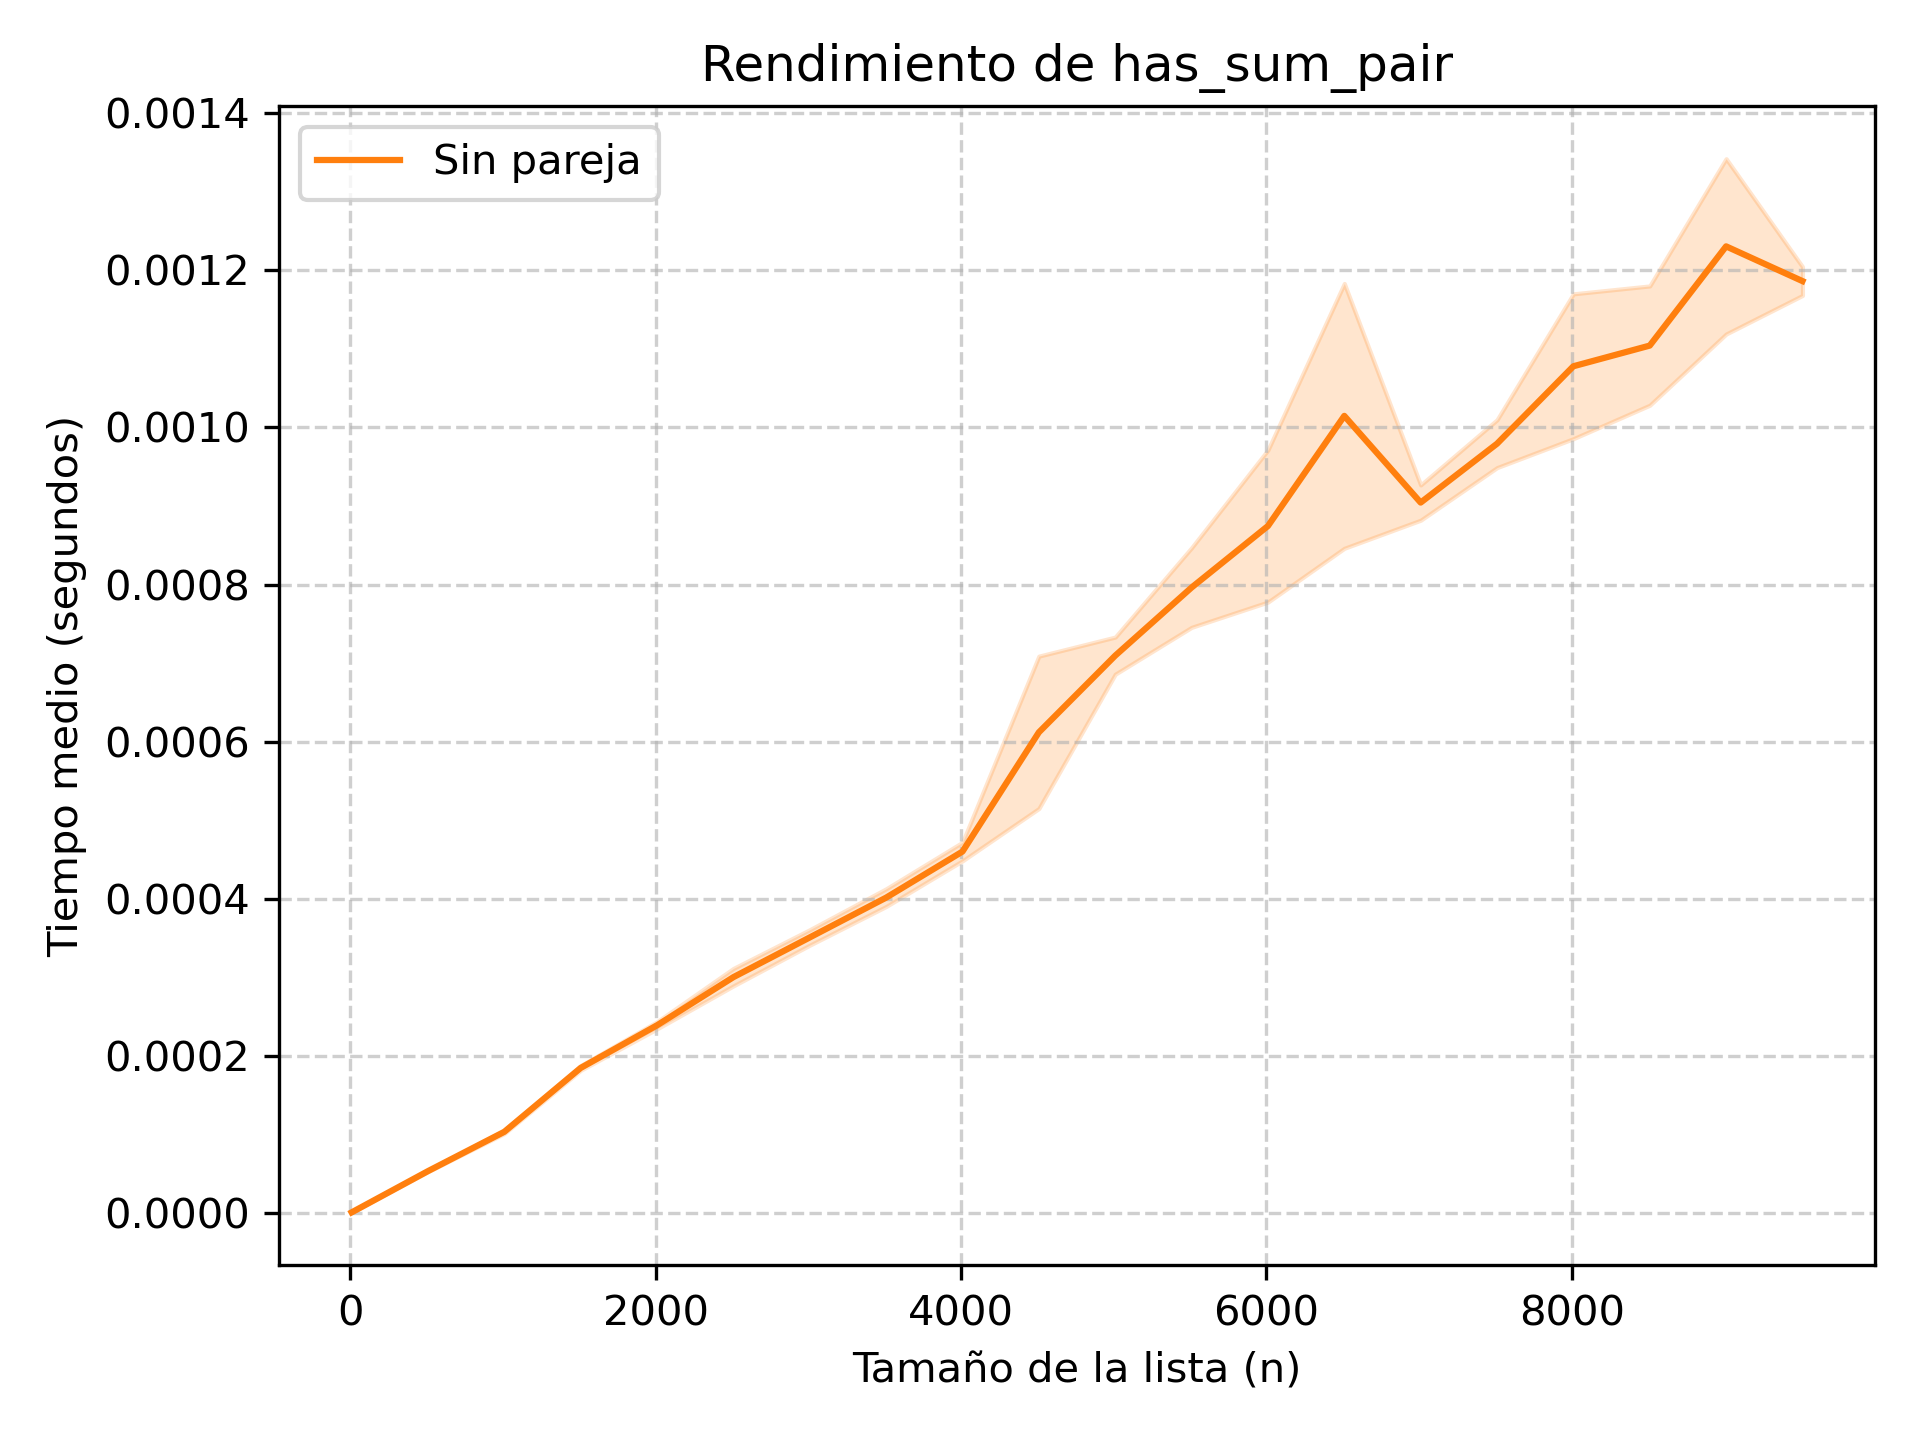
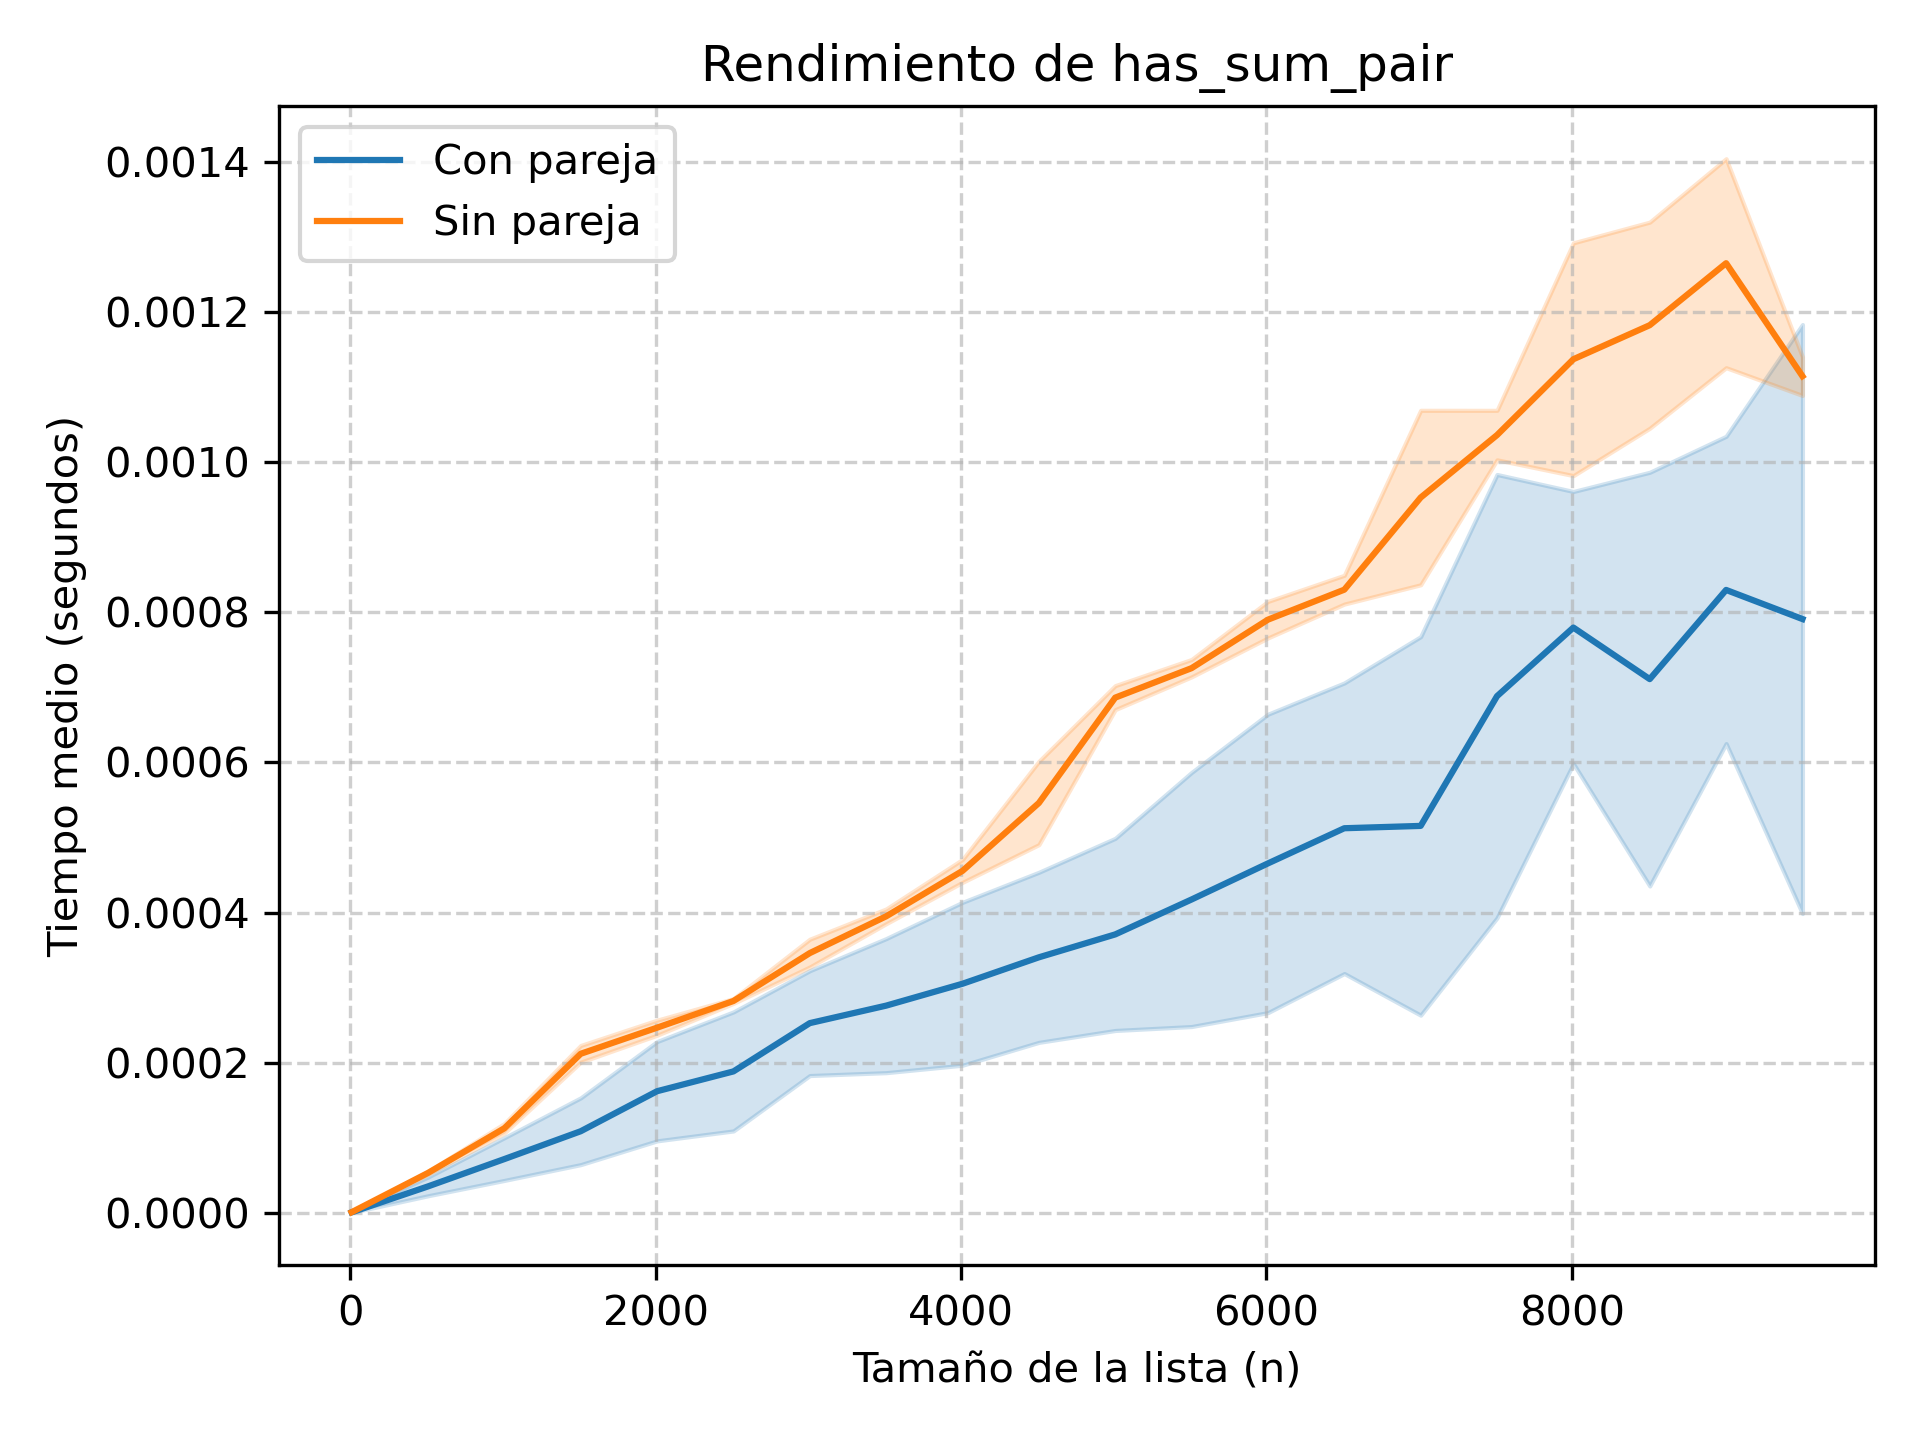
rle

diff --git a/mediciones_rle.py b/mediciones_rle.py
@@ -1,0 +1,58 @@
+import math
+import matplotlib.pyplot as plt
+from p1 import time_measure, rle_encode_naive, rle_encode_optimized
+
+# 1. Preparación de datos (Pocas rachas vs Muchas rachas)
+def prep_muchas_rachas(n):
+    # Alterna valores continuamente. Ejemplo: [0, 1, 0, 1, 0, 1...]
+    return [i % 2 for i in range(n)]
+
+def prep_pocas_rachas(n):
+    # Crea solo dos rachas gigantes. Ejemplo para n=10: [0,0,0,0,0, 1,1,1,1,1]
+    mitad = n // 2
+    return [0] * mitad + [1] * (n - mitad)
+
+# 2. Tamaños a probar
+# Es posible que debas reducir el límite a 5000 si la versión naive tarda demasiado
+Nlist = list(range(100, 5000, 500))
+
+# 3. Medición (Evaluando el impacto de crear muchas tuplas)
+print("Midiendo naive...")
+res_naive = time_measure(rle_encode_naive, prep_muchas_rachas, Nlist, Nrep=50, Nstat=10)
+
+print("Midiendo optimized...")
+res_opt = time_measure(rle_encode_optimized, prep_muchas_rachas, Nlist, Nrep=50, Nstat=10)
+
+# 4. Desempaquetar datos
+medias_naive = [m for m, v in res_naive]
+std_naive = [math.sqrt(v) for m, v in res_naive]
+
+medias_opt = [m for m, v in res_opt]
+std_opt = [math.sqrt(v) for m, v in res_opt]
+
+# 5. Dibujar gráfica comparativa
+plt.figure(figsize=(10, 6))
+
+# Línea Naive
+plt.plot(Nlist, medias_naive, label="Naive (Muchas rachas)", color='#d62728')
+plt.fill_between(Nlist, 
+                 [max(0, m - s) for m, s in zip(medias_naive, std_naive)], 
+                 [m + s for m, s in zip(medias_naive, std_naive)], 
+                 color='#d62728', alpha=0.2)
+
+# Línea Optimizada
+plt.plot(Nlist, medias_opt, label="Optimized (Muchas rachas)", color='#2ca02c')
+plt.fill_between(Nlist, 
+                 [max(0, m - s) for m, s in zip(medias_opt, std_opt)], 
+                 [m + s for m, s in zip(medias_opt, std_opt)], 
+                 color='#2ca02c', alpha=0.2)
+
+plt.xlabel("Tamaño de la lista (n)")
+plt.ylabel("Tiempo medio (segundos)")
+plt.title("Comparativa de RLE: Naive vs Optimized")
+plt.legend()
+plt.grid(True, linestyle="--", alpha=0.6)
+plt.tight_layout()
+
+plt.savefig("rle_muchas_rachas.png", dpi=300)
+plt.show()

diff --git a/mediciones.py b/mediciones.py
@@ -37,6 +37,12 @@ std_con = [math.sqrt(v) for (m, v) in resultado_con_pareja] # Desviación típic
 medias_sin = [m for (m, v) in resultado_sin_pareja]
 std_sin = [math.sqrt(v) for (m, v) in resultado_sin_pareja] # Desviación típica
 
+plt.plot(Nlist, medias_con, label="Con pareja", color='#1f77b4')
+plt.fill_between(Nlist, 
+                 [max(0, m - s) for m, s in zip(medias_con, std_con)], 
+                 [m + s for m, s in zip(medias_con, std_con)], 
+                 color='#1f77b4', alpha=0.2)
+
 plt.plot(Nlist, medias_sin, label="Sin pareja", color='#ff7f0e')
 plt.fill_between(Nlist, 
                  [max(0, m - s) for m, s in zip(medias_sin, std_sin)], 

diff --git a/p1.py b/p1.py
@@ -196,12 +196,12 @@ def rle_encode_naive(lst):
     contador=1
 
     for elem in lst[1:]:
-        if actual==elem:
+        if elem == actual:
             contador+=1
         else:
             resultado=resultado + [(actual,contador)]
-            actual=elem
-            contador=1
+            actual = elem
+            contador = 1
 
     resultado=resultado+[(actual,contador)]
     return resultado
